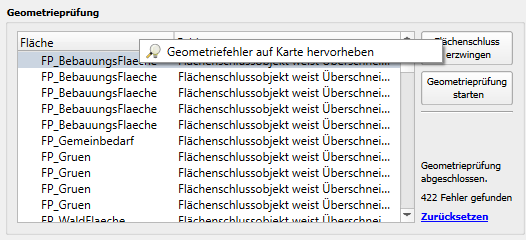
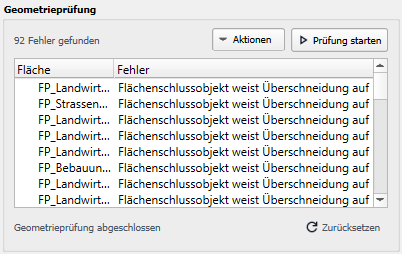
update docs
(cherry picked from commit 5e53beac013b419f8890c15b138215b0a135847c)

diff --git a/docs/docs/elements/plan-details.md b/docs/docs/elements/plan-details.md
@@ -59,7 +59,7 @@ Dies betrifft die folgenden Bedingungen:
     <h4>Ausführen der Geometrieprüfung</h4>
     <ol>
         <li>
-            Mit dem Button <b>Geometrieprüfung starten</b> den Prozess starten. Je nach Menge der erfassten 
+            Mit dem Button <b>Prüfung starten</b> den Prozess starten. Je nach Menge der erfassten 
             Flächenschlussobjekte kann der Prozess einige Zeit in Anspruch nehmen
         </li>
         <li>
@@ -78,15 +78,19 @@ Dies betrifft die folgenden Bedingungen:
 </div>
 
 <div class="procedure">
-    <h4>Flächenschluss erzwingen</h4>
-    <ul>
-        <li>
-            Die Funktion <b>Flächenschluss erzwingen</b> ermöglicht es, Flächen, die mit keiner Festsetzung 
-            konfiguriert sind, mit einem Objekt des Typ <code>BP_FlaecheOhneFestsetzung</code> zu füllen. Dies ist 
-            hilfreich, um die Flächenschlussbedingung zu erfüllen, wenn nicht die komplette Fläche des Geltungsbereichs 
-            mit vektoriell erfassten Planinhalten gefüllt werden kann. 
-        </li>
-    </ul>
+    <h4>Weitere Aktionen</h4>
+    <table markdown="span">
+        <tr markdown="span">
+            <th>Flächenschluss erzwingen</th>
+            <td>
+                Die Funktion <b>Flächenschluss erzwingen</b> ermöglicht es, Flächen, die mit keiner Festsetzung 
+                konfiguriert sind, mit einem Objekt des Typ <code>BP_FlaecheOhneFestsetzung</code> oder 
+                <code>FP_FlaecheOhneDarstellung</code>zu füllen. Dies ist hilfreich, um die Flächenschlussbedingung zu 
+                erfüllen, wenn nicht die komplette Fläche des Geltungsbereichs mit vektoriell erfassten Planinhalten 
+                gefüllt werden kann. 
+            </td>
+        </tr>
+    </table>
 </div>
 
 
